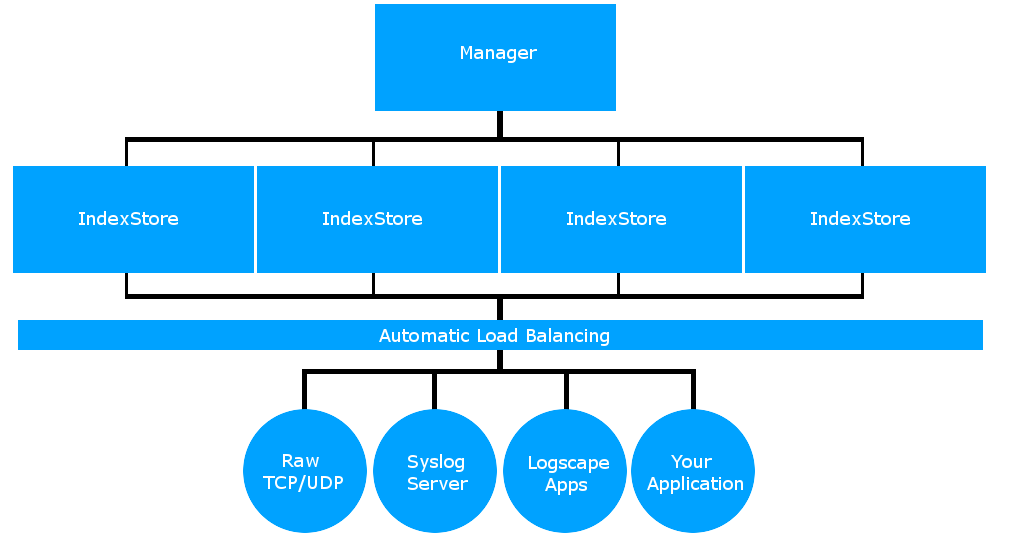
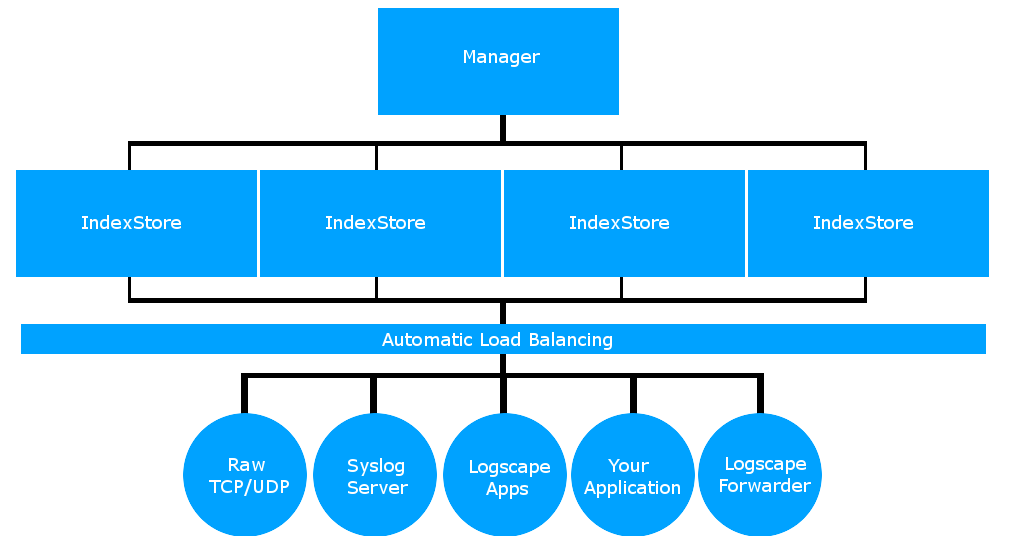
QA updates to sizing 1tb

diff --git a/technology-sizing_1tb.html b/technology-sizing_1tb.html
@@ -260,72 +260,86 @@
               <div class="col-md-11">
                 <h3>Sizing for Ingesting 1 TB Daily</h3>
                 <p>1TB is a daunting amount of data, however with a small amount of pre-planning ingesting, indexing and searching this data is a simple task when using Logscape.</p>
-                <p>While one Indexstore could theoretically ingest and index 1 TB per day, the issues begin to appear when searching this data. Introducing additional Indexstores allows the data to be seperated and the IO capabilities of multiple servers brought to bear. </p>
-                <p>Because of this multiple Indexstores will be utilized, for this specific deployment 6 well provisioned Indexstores will be included.</p><strong>Assumptions</strong>
+                <p>Whilst a single Indexstore could theoretically ingest and index 1 TB per day, we would suffer severe performance issues when running searches. Introducing additional Indexstores allows the data volume to be separated in to manageable clusters, allowing us to leverage the increased processing and Disk I/O capacity. For this specific deployment, we will install 6 well provisioned Indexstores.</p><strong>Assumptions</strong>
                 <ul>
                   <li>1 TB a day inbound traffic</li>
                   <li>50 Users throughout the organization</li>
-                  <li>Not all 1 TB of data will be searched on a daily basis</li>
                   <li>No <a href="deploy-arch_zoning.html">Zoning </a>will be used.</li>
                   <li>Data arrives at a uniform rate
                     <ul>
                       <li>(In a real world scenario bursts would be backfilled over time)</li>
                     </ul>
                   </li>
-                  <li>30 day retention</li>
-                </ul>
-                <p>The inclusion of 6 Indexstores reduces our Input requirements to an insignificant 12mb/sec, however even with the data spread evenly between each host, at maximum capacity a host will be responsible for searching 5TB of data, so disk speed, and in memory caching are still a concern.</p><strong>Rough Indexer Specs</strong>
-                <p>Specific server specifications will vary however see below for rough dimensions on what is reccomended for a set up on this scale.</p>
+                  <li>30 day retention (Total Indexed Capacity 30TB)</li>
+                </ul><strong>Comparison</strong>
+                <p>Using the specifications stated below, we get the following when comparing a 1 Indexstore environment against a 6 Indexstore Environment.</p>
                 <table>
                   <tbody>
                     <tr style="background-color:#333;color:#CCC">
-                      <td style="width: 33.333333333333336%; border-top:1px solid #ddd">Device </td>
-                      <td style="width: 33.333333333333336%; border-top:1px solid #ddd">Reccomendation </td>
+                      <td style="width: 33.333333333333336%; border-top:1px solid #ddd">Feature</td>
+                      <td style="width: 33.333333333333336%; border-top:1px solid #ddd">1x Indexstore </td>
+                      <td style="width: 33.333333333333336%; border-top:1px solid #ddd">6x Indexstore </td>
                     </tr>
                     <tr>
-                      <td style="width: 33.333333333333336%; border-top:1px solid #ddd">Disk</td>
-                      <td style="width: 33.333333333333336%; border-top:1px solid #ddd">RAID 5(4+1), Disks with at least 500mb/sec R/W</td>
+                      <td style="width: 33.333333333333336%; border-top:1px solid #ddd">Disk Speed</td>
+                      <td style="width: 33.333333333333336%; border-top:1px solid #ddd">2GB/Sec</td>
+                      <td style="width: 33.333333333333336%; border-top:1px solid #ddd">12GB/Sec</td>
                     </tr>
                     <tr>
-                      <td style="width: 33.333333333333336%; border-top:1px solid #ddd">CPU</td>
-                      <td style="width: 33.333333333333336%; border-top:1px solid #ddd">52 core modern CPU</td>
+                      <td style="width: 33.333333333333336%; border-top:1px solid #ddd">Network Bandwidth</td>
+                      <td style="width: 33.333333333333336%; border-top:1px solid #ddd">2.5GB/sesc</td>
+                      <td style="width: 33.333333333333336%; border-top:1px solid #ddd">2.5GB/sec</td>
                     </tr>
                     <tr>
-                      <td style="width: 33.333333333333336%; border-top:1px solid #ddd">Memory</td>
+                      <td style="width: 33.333333333333336%; border-top:1px solid #ddd">Search Speed(1TB)&nbsp;&nbsp;&nbsp;&nbsp;&nbsp;                    </td>
+                      <td style="width: 33.333333333333336%; border-top:1px solid #ddd">500 Seconds</td>
                       <td style="width: 33.333333333333336%; border-top:1px solid #ddd">
-                        24GB
+                        83 Seconds
                         
-                      </td>
-                    </tr>
-                  </tbody>
-                </table>
-                <p> <br/>The above specification allows for approximately 2GB/second of Read/Write operations while also having a sizeable amount of RAM for in memory caching.</p><strong>Network Stats</strong>
-                <p>Network requirements will vary upon the individual IO capability of your Indexstores, but must be configured in such a way to take into account both data transfer incoming to the Indexstores as well as the capacity needed by in order to transfer data to the Manager at search time. To benchmark your network you can follow the steps <a href="technology-benchmarking.html">here</a>. For this scenario we will assume each Indexstore is connected via two fibre channel connections which are bonded for an estimated bandwidth of 2.5gb/sec.</p><strong>Rough Manager Specs</strong>
-                <table>
-                  <tbody>
-                    <tr style="background-color:#333;color:#CCC">
-                      <td style="width: 33.333333333333336%; border-top:1px solid #ddd">Device </td>
-                      <td style="width: 33.333333333333336%; border-top:1px solid #ddd">Reccomendation </td>
-                    </tr>
-                    <tr>
-                      <td style="width: 33.333333333333336%; border-top:1px solid #ddd">Disk</td>
-                      <td style="width: 33.333333333333336%; border-top:1px solid #ddd">RAID 5(4+1), Disks with at least 500mb/sec R/W</td>
-                    </tr>
-                    <tr>
-                      <td style="width: 33.333333333333336%; border-top:1px solid #ddd">CPU</td>
-                      <td style="width: 33.333333333333336%; border-top:1px solid #ddd">52 core modern CPU</td>
-                    </tr>
-                    <tr>
-                      <td style="width: 33.333333333333336%; border-top:1px solid #ddd">Memory</td>
-                      <td style="width: 33.333333333333336%; border-top:1px solid #ddd">
-                        28GB, Minimum of 8GB allocated to the Dashboard process
                         
                         
                       </td>
                     </tr>
                   </tbody>
                 </table>
-                <p> <br/>Managing sizing is dependant upon the average size of a search, the number of concurrent users, as well as the amount of pre-configured alerts. Genral advice is that the system should have enough RAM to allow for caching of search time data, whilst also allowing an additional 5-10mb per dashboard search, and alert.</p><strong>What the environment will look like</strong><em> <br/>The below image reflects what a large environment utilising the built in Load balancing, and indexstores will look like</em>
+                <p>The inclusion of 6 Indexstores reduces our Input requirements to an insignificant 12mb/sec, however even with the data spread evenly between each host, at maximum capacity a host will be responsible for searching 5TB of data, so disk speed, and in-memory caching are still a concern.</p><strong>Network Stats</strong>
+                <p>Network requirements will vary upon the individual IO capability of your Indexstores, but must be configured in such a way to take into account both data transfer incoming to the Indexstores as well as the capacity needed by in order to transfer data to the Manager at search time. To benchmark your network you can follow the steps <a href="technology-benchmarking.html">here</a>. For this scenario we will assume each Indexstore is connected via two fibre channel connections which are bonded for an estimated bandwidth of 2.5gb/sec.</p><strong>Rough Specifications</strong>
+                <table>
+                  <tbody>
+                    <tr style="background-color:#333;color:#CCC">
+                      <td style="width: 25%; border-top:1px solid #ddd">Device </td>
+                      <td style="width: 25%; border-top:1px solid #ddd">Manager</td>
+                      <td style="width: 25%; border-top:1px solid #ddd">IndexStore</td>
+                      <td style="width: 25%; border-top:1px solid #ddd">Forwarder</td>
+                    </tr>
+                    <tr>
+                      <td style="width: 25%; border-top:1px solid #ddd">Disk</td>
+                      <td style="width: 25%; border-top:1px solid #ddd">RAID 5(4+1), Disks with at least 500mb/sec R/W</td>
+                      <td style="width: 25%; border-top:1px solid #ddd">RAID 5(4+1), Disks with at least 500mb/sec R/W</td>
+                      <td style="width: 25%; border-top:1px solid #ddd">-</td>
+                    </tr>
+                    <tr>
+                      <td style="width: 25%; border-top:1px solid #ddd">CPU</td>
+                      <td style="width: 25%; border-top:1px solid #ddd">64 core modern CPU</td>
+                      <td style="width: 25%; border-top:1px solid #ddd">64 core modern CPU</td>
+                      <td style="width: 25%; border-top:1px solid #ddd">-</td>
+                    </tr>
+                    <tr>
+                      <td style="width: 25%; border-top:1px solid #ddd">Memory</td>
+                      <td style="width: 25%; border-top:1px solid #ddd">64GB, Minimum of 8GB allocated to the Dashboard/Aggspace process</td>
+                      <td style="width: 25%; border-top:1px solid #ddd">64GB</td>
+                      <td style="width: 25%; border-top:1px solid #ddd">
+                        512MB
+                        
+                        
+                      </td>
+                    </tr>
+                  </tbody>
+                </table>
+                <p> <br/>Manager sizing is dependant upon the average size of a search, the number of concurrent users, as well as the amount of pre-configured alerts. General advice is that the system should have enough RAM to allow for caching of search time data, whilst also allowing an additional 5-10mb per dashboard search, and alert.</p>
+                <p>Indexstores require high read speeds in order to search their indexes for data requested by searches. Ideally every Indexstore should feature a similar read potential as due to the Load Balanced nature of a Logscape deployment, searches will be held up by a single Indexstore with a slower read capability.</p>
+                <p>Forwarders are a lightweight agent where Disk and CPU are of little concern as long as Disk I/O and CPU resources are not at 100% values. The agent itself is designed to use a minimum amount of RAM, and is operationally capable while sized as low as 256MB.</p>
+                <p> <br/>The key value to note here is the search speed. The input requirements for 1 TB of data are relatively low, however serving 30 days worth of collated storage back in the form of a search in a short span of time requires multiple indexstores.</p><strong> <br/>Environment Mock-Up</strong><em> <br/>The below image reflects what a large environment utilising the built in Load Balancing, and Indexstores will look like</em><br/>
                 <image src="images/IndexstoreDeployment.png"></image>
               </div>
             </div>

diff --git a/deploy-license.html b/deploy-license.html
@@ -258,76 +258,21 @@
           <div class="container-fluid">
             <div class="row">
               <div class="col-md-11">
-                <h3>Sizing for Ingesting 1 TB Daily</h3>
-                <p>1TB is a daunting amount of data, however with a small amount of pre-planning ingesting, indexing and searching this data is a simple task when using Logscape.</p>
-                <p>While one Indexstore could theoretically ingest and index 1 TB per day, the issues begin to appear when searchinging this data. Introducing additional Indexstores allows the data to be seperated and the IO capabilities of multiple servers brought to bear. </p>
-                <p>Because of this multiple Indexstores will be utilized, for this specific deployment 6 well provisioned Indexstores will be included.</p><strong>Assumptions</strong>
+                <h3>The Logscape License</h3>
+                <p>A license file is required in order to mark your environment as a licensed installation. A licensed environment is not subject to the restrictions of an unlicensed one, the lifted restrictions are as follows.</p>
                 <ul>
-                  <li>1 TB a day inbound traffic</li>
-                  <li>50 Users throughout the organization</li>
-                  <li>Not all 1 TB of data will be searched on a daily basis</li>
-                  <li>No <a href="deploy-arch_zoning.html">Zoning </a>will be used.</li>
-                  <li>Data arrives at a uniform rate
-                    <ul>
-                      <li>(In a real world scenario bursts would be backfilled over time)</li>
-                    </ul>
-                  </li>
-                  <li>30 day retention</li>
+                  <li>Ability to use Indexstores</li>
+                  <li>Ability to use Failovers</li>
+                  <li>Lift on the 5gb/day limit</li>
+                  <li>Use of alerting</li>
                 </ul>
-                <p>The inclusion of 6 Indexstores reduces our Input requirements to an insignificant 12mb/sec, however even with the data spread evenly between each host, at maximum capacity a host will be responsible for searching 5TB of data, so disk speed, and in memory caching are still a concern.</p><strong>Rough Indexer Specs</strong>
-                <p>Specific server specifications will vary however see below for rough dimensions on what is reccomended for a set up on this scale.</p>
-                <table>
-                  <tbody>
-                    <tr style="background-color:#333;color:#CCC">
-                      <td style="width: 33.333333333333336%; border-top:1px solid #ddd">Device </td>
-                      <td style="width: 33.333333333333336%; border-top:1px solid #ddd">Reccomendation </td>
-                    </tr>
-                    <tr>
-                      <td style="width: 33.333333333333336%; border-top:1px solid #ddd">Disk</td>
-                      <td style="width: 33.333333333333336%; border-top:1px solid #ddd">RAID 5(4+1), Disks with at least 500mb/sec R/W</td>
-                    </tr>
-                    <tr>
-                      <td style="width: 33.333333333333336%; border-top:1px solid #ddd">CPU</td>
-                      <td style="width: 33.333333333333336%; border-top:1px solid #ddd">.....</td>
-                    </tr>
-                    <tr>
-                      <td style="width: 33.333333333333336%; border-top:1px solid #ddd">Memory</td>
-                      <td style="width: 33.333333333333336%; border-top:1px solid #ddd">
-                        24GB
-                        
-                      </td>
-                    </tr>
-                  </tbody>
-                </table>
-                <p>The above specification allows for approximately 2GB/second of Read/Write operations while also having a sizeable amount of RAM for in memory caching.</p><strong>Network Stats</strong>
-                <p>Network requirements will vary upon the individual IO capability of your Indexstores, but must be configured in such a way to take into account both data transfer incoming to the Indexstores as well as the capacity needed by in order to transfer data to the Manager at search time. To benchmark your network you can follow the steps </p><a href="technology-benchmarking.html">
-                  here
-                  .</a><strong>Rough Manager Specs</strong>
-                <table>
-                  <tbody>
-                    <tr style="background-color:#333;color:#CCC">
-                      <td style="width: 33.333333333333336%; border-top:1px solid #ddd">Device </td>
-                      <td style="width: 33.333333333333336%; border-top:1px solid #ddd">Reccomendation </td>
-                    </tr>
-                    <tr>
-                      <td style="width: 33.333333333333336%; border-top:1px solid #ddd">Disk</td>
-                      <td style="width: 33.333333333333336%; border-top:1px solid #ddd">RAID 5(4+1), Disks with at least 500mb/sec R/W</td>
-                    </tr>
-                    <tr>
-                      <td style="width: 33.333333333333336%; border-top:1px solid #ddd">CPU</td>
-                      <td style="width: 33.333333333333336%; border-top:1px solid #ddd">.....</td>
-                    </tr>
-                    <tr>
-                      <td style="width: 33.333333333333336%; border-top:1px solid #ddd">Memory</td>
-                      <td style="width: 33.333333333333336%; border-top:1px solid #ddd">
-                        28GB, Minimum of 8GB allocated to the Dashboard process
-                        
-                        
-                        
-                      </td>
-                    </tr>
-                  </tbody>
-                </table>
+                <p>Logscape is licensed on a per "Adminsitrative Agent" basis, Adminsitrative Agents include,</p>
+                <ul>
+                  <li>Manager</li>
+                  <li>Failover</li>
+                  <li>Indexstore</li>
+                </ul>
+                <p>Logscape is licensed on a perpetual basis, with a yearly fee for support - For full pricing information please contact support@logscape.com</p>
               </div>
             </div>
             <div class="row">

diff --git a/technology-benchmarking.html b/technology-benchmarking.html
@@ -313,80 +313,6 @@ Apr 14 05:36:56 100.0.1.7 Apr 14 2012 04:38:51: %ASA-4-106023: Deny icmp src vla
                     </tr>
                   </tbody>
                 </table>
-                <h3>Disk Benchmarking</h3>
-                <p>A healthy Logscape environment should be CPU bound rather than IO bound. For that reason it's important to test the IO speed of your disks, to do this we're going to use a tool called iozone. IOzone is fully configurable and used for performing disk benchmarking, allowing for a variety of test formats with fully customizable datasets.</p>
-                <p>IOzone can be downloaded for free <a href="http://www.iozone.org/" target="_blank">here</a>.</p>
-                <p>Once IOzone has been downloaded and installed it can be ran with the following arguements to give insight into how the disk is currently performing</p>
-                <pre>iozone -T -t16 -r64k -S20480 -l -i 0 -i 1 -i 2</pre>
-                <p>Once all the tests have been complete you will have a full run down of operations, as well as the speed at which this was performed.</p>
-                <table>
-                  <tbody>
-                    <tr style="background-color:#333;color:#CCC">
-                      <td style="width: 50%; border-top:1px solid #ddd">Device</td>
-                      <td style="width: 50%; border-top:1px solid #ddd">Expected Speed</td>
-                    </tr>
-                    <tr>
-                      <td style="width: 50%; border-top:1px solid #ddd">Hard Drive</td>
-                      <td style="width: 50%; border-top:1px solid #ddd">30mb/sec</td>
-                    </tr>
-                    <tr>
-                      <td style="width: 50%; border-top:1px solid #ddd">SSD</td>
-                      <td style="width: 50%; border-top:1px solid #ddd">300mb/sec</td>
-                    </tr>
-                    <tr>
-                      <td style="width: 50%; border-top:1px solid #ddd">RAID-5</td>
-                      <td style="width: 50%; border-top:1px solid #ddd">1.8Gb/sec</td>
-                    </tr>
-                  </tbody>
-                </table>
-                <h3>SAN Benchmarking</h3>
-                <p>Using a SAN will requires sufficient I/O performance in order to saturate the CPU's. To benchmark a SAN the goals of the CPU performance should be understood. For example a set of 10 48 core IndexStores will require 10 x 2GB/s sustained throughput (20GB/sec). This may exceed to performance for many SAN or VM environments. </p>
-                <p>For benchmarking your SAN device, there are various tools available. Windows:  <a href="http://crystalmark.info/software/CrystalDiskMark/index-e.html" target="_blank">CrystalDiskMark </a> or Linux:<a href="http://www.iozone.org/" target="_blank">Iozone.</a></p>
-                <p>Crystal Bench Mark will produce, read and write a series of random files which can be configured via the user interface.</p>
-                <p>Benchmarks will vary on a case by case basis however below are some base figures as to what to expect.</p>
-                <table>
-                  <tbody>
-                    <tr style="background-color:#333;color:#CCC">
-                      <td style="width: 50%; border-top:1px solid #ddd">Device</td>
-                      <td style="width: 50%; border-top:1px solid #ddd">Expected Speed</td>
-                    </tr>
-                    <tr>
-                      <td style="width: 50%; border-top:1px solid #ddd">iSCSI 1x1gb</td>
-                      <td style="width: 50%; border-top:1px solid #ddd">90mb/sec</td>
-                    </tr>
-                    <tr>
-                      <td style="width: 50%; border-top:1px solid #ddd">iSCSI 2x1gb</td>
-                      <td style="width: 50%; border-top:1px solid #ddd">150mb/sec</td>
-                    </tr>
-                    <tr>
-                      <td style="width: 50%; border-top:1px solid #ddd">iSCSI 1x8GFC FCP</td>
-                      <td style="width: 50%; border-top:1px solid #ddd">750mb/sec	</td>
-                    </tr>
-                    <tr>
-                      <td style="width: 50%; border-top:1px solid #ddd">iSCSI 1x10gb</td>
-                      <td style="width: 50%; border-top:1px solid #ddd">800mb/sec</td>
-                    </tr>
-                    <tr>
-                      <td style="width: 50%; border-top:1px solid #ddd">iSCSI 1x16GFC FCP</td>
-                      <td style="width: 50%; border-top:1px solid #ddd">1500mb/sec</td>
-                    </tr>
-                  </tbody>
-                </table>
-                <p>The configuration for CrystalDiskMark is as follows -</p>
-                <image src="/images/crystaldiskmark.png"></image>
-                <p>5 - the number of test passes to run. </p>
-                <p>4000MB - The test file size, using a larger file size reduces the chance of obtaining cached data which will artificially bloat the results.</p>
-                <p>E: - The drive to test <b>NOTE: </b>make sure the drive contains enough space for your test data.</p>
-                <p>After you have configured the tool, press "All" to begin. Below is an explanation of each result.</p>
-                <ul>
-                  <li>Seq - Long sequential operations</li>
-                  <li>512k - Large operations</li>
-                  <li>4k - Small operations - 1 at a time</li>
-                  <li>4k QD32 - Small operations - many at a time</li>
-                </ul>
-                <p>When searching Logscape you will buffer log lines to be transferred, as such 'Seq' is the most relevant value.</p>
-                <p>Iozone is a simple command line utility that will work on UNIX and Windows operating system, or reccomended command line is as follows.</p>
-                <blockquote>iozone -t 32 -s 2G -r 8k -r 16k</blockquote>
               </div><br/><br/><br/>
               <div id="disqus_thread">
                 <script>
